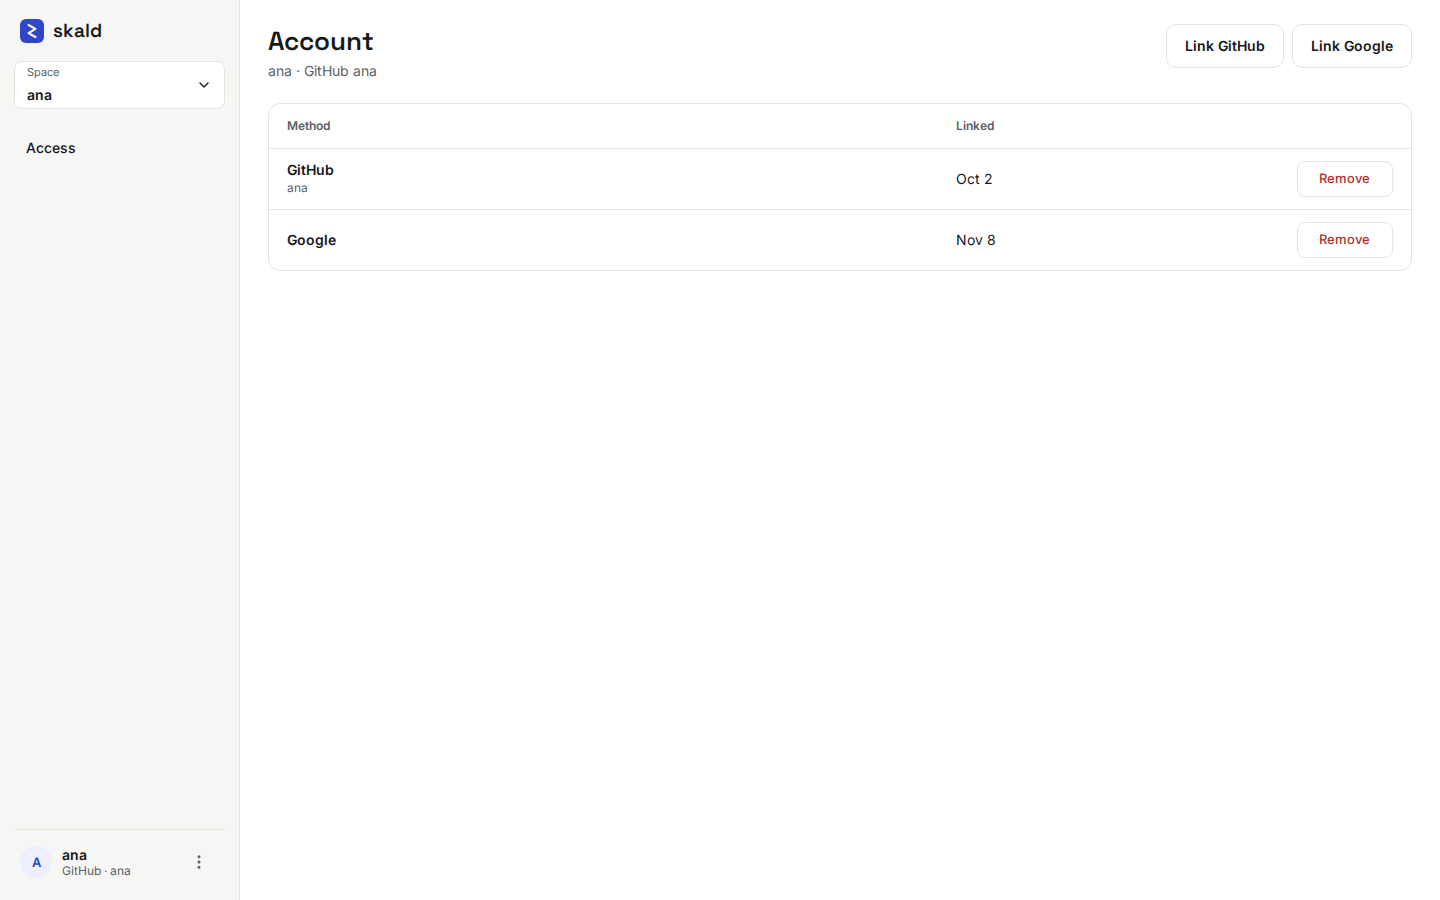
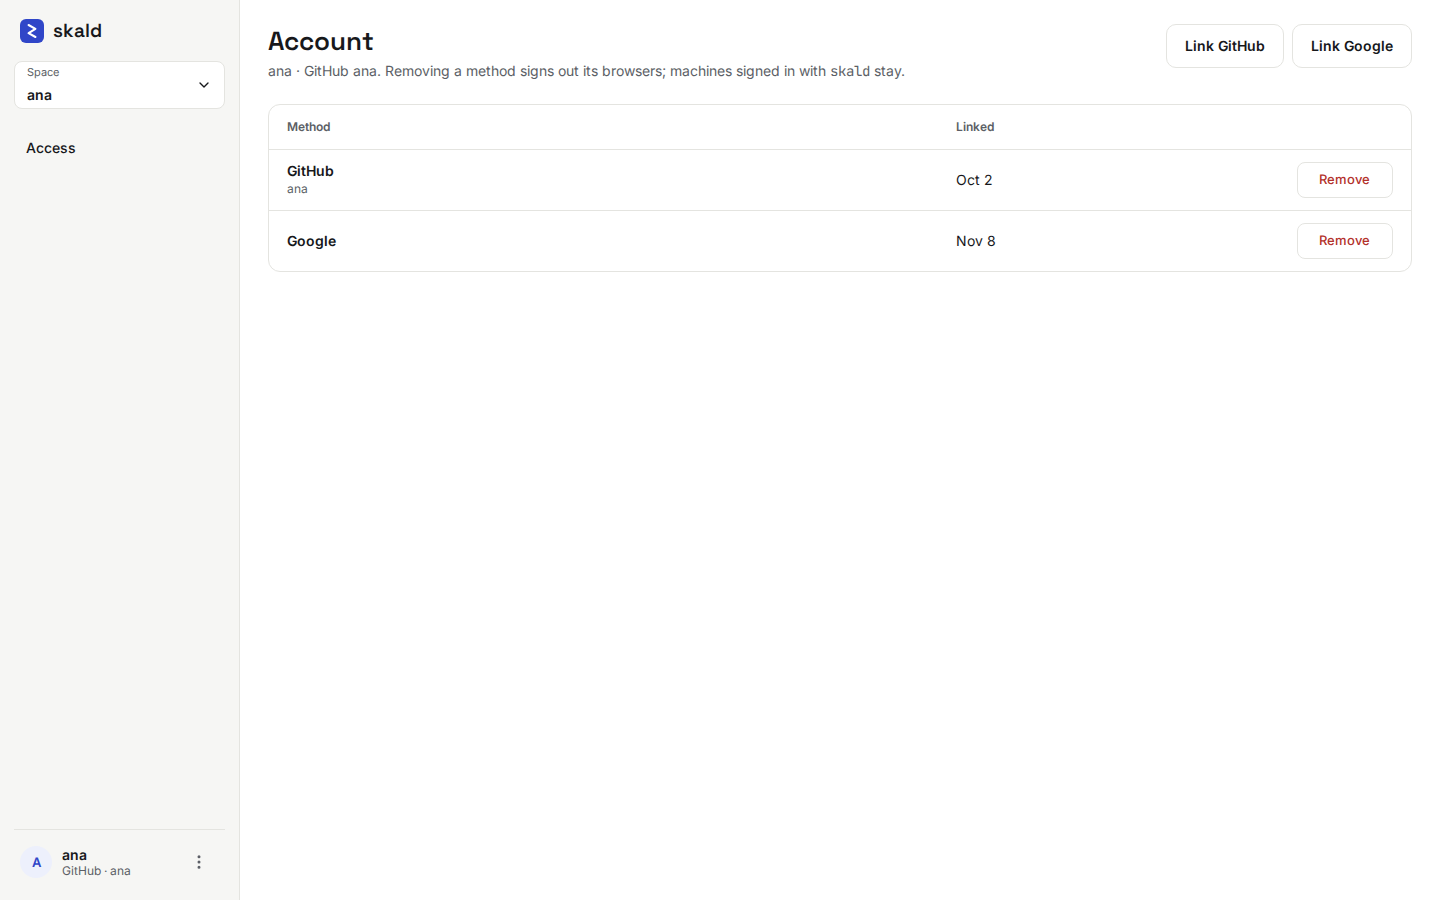
fix(web): say on the Account page what removing a method signs out
Claude-Session: https://claude.ai/code/session_01Jk16b9bCrPMiGtRhYvQoAm

diff --git a/web/src/app/Account.tsx b/web/src/app/Account.tsx
@@ -116,9 +116,13 @@ export function AccountScreen({
       <PageHeader
         title="Account"
         subtitle={
-          session.github_login
-            ? `${session.username} · GitHub ${session.github_login}`
-            : session.username
+          <>
+            {session.github_login
+              ? `${session.username} · GitHub ${session.github_login}`
+              : session.username}
+            . Removing a method signs out its browsers; machines signed in with{" "}
+            <code>skald</code> stay.
+          </>
         }
         actions={providers.map((provider) => (
           <form
